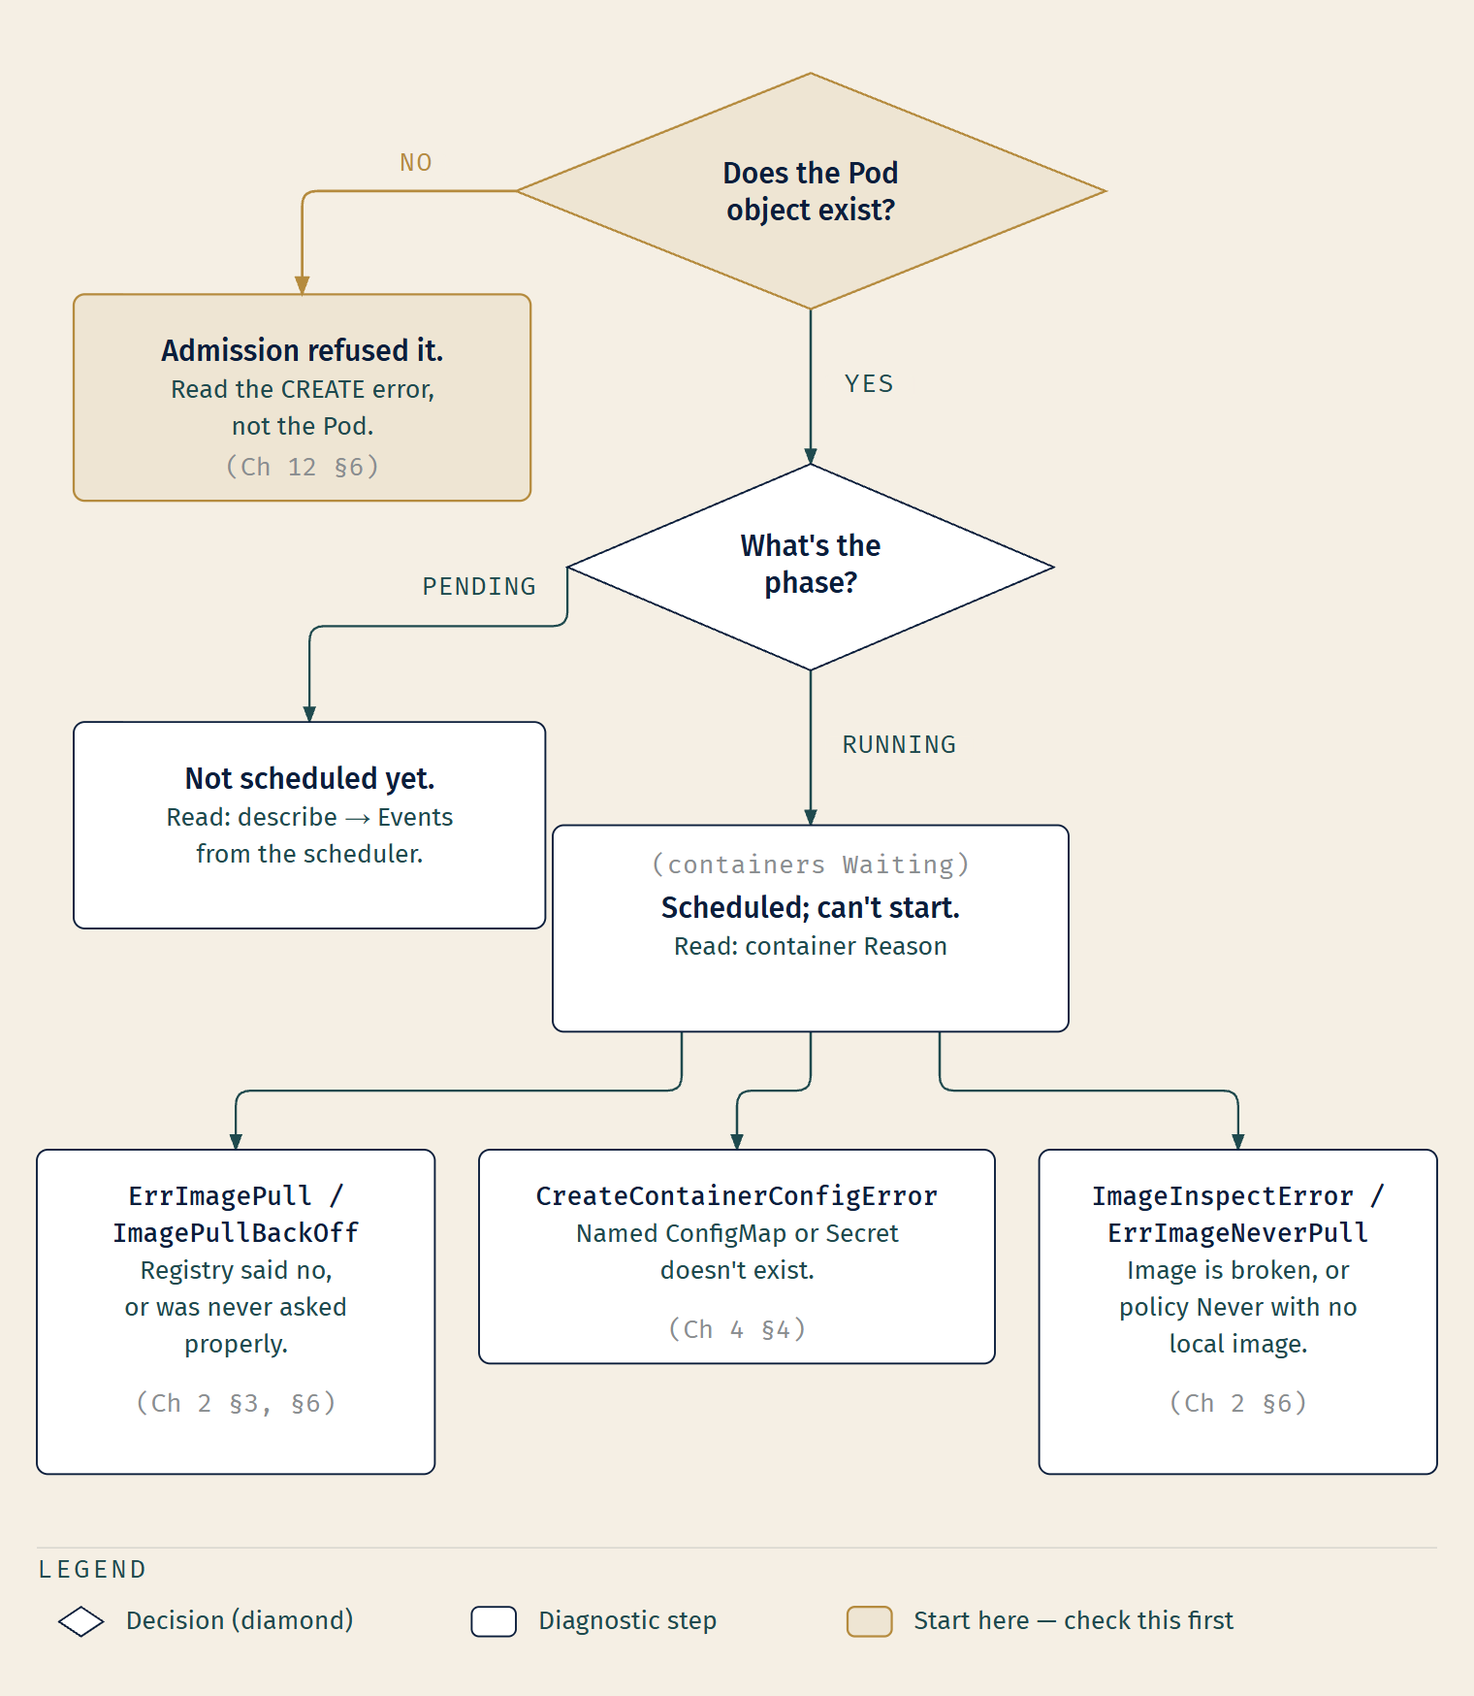
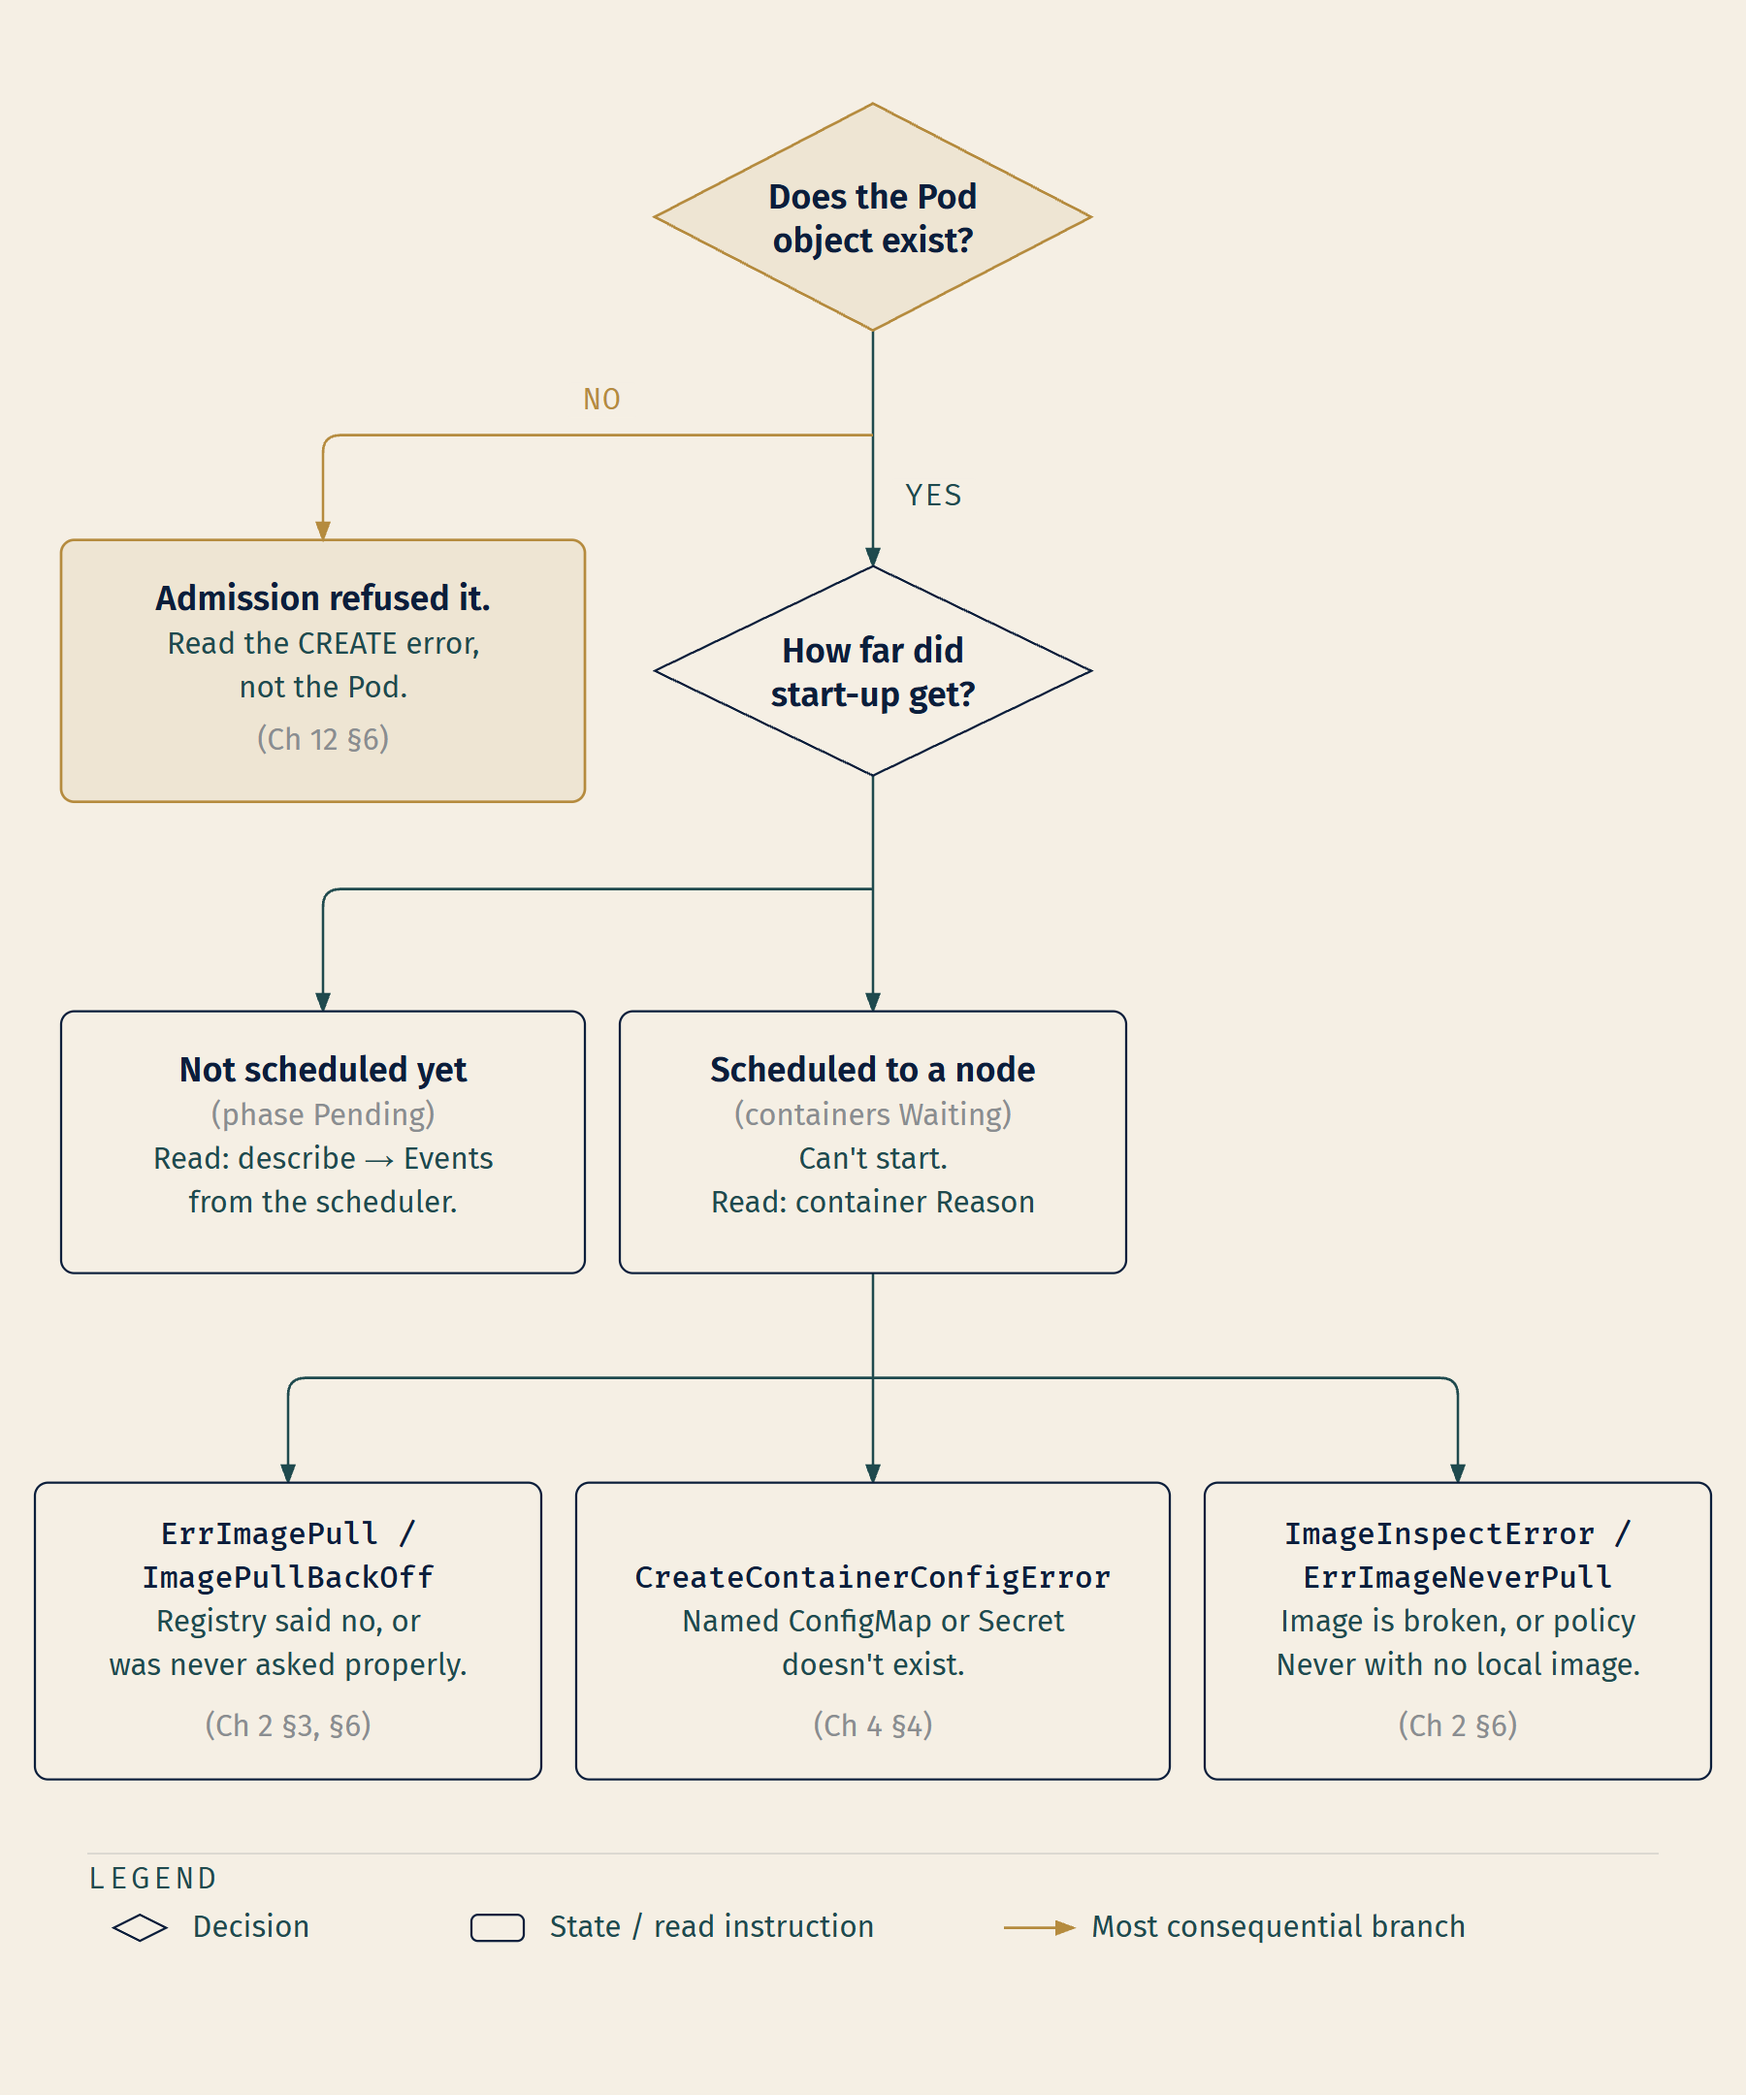
ch13-fig02 regenerated: the scheduled-but-not-started branch is Pending with containers Waiting, no longer labeled Running
Claude-Session: https://claude.ai/code/session_017xzPFT9rf4ARsw4oFKb6jK

diff --git a/chapter-13-when-the-cluster-won-t-answer.md b/chapter-13-when-the-cluster-won-t-answer.md
@@ -415,7 +415,7 @@ This is the largest failure family, and the one where the method pays off hardes
 Every failure in this section shares one property: **no container ever executed.** Nothing ran, so nothing logged, so no amount of log-reading will help you. What separates them is *how far into the start-up sequence the platform got before it stopped*.
 
 <!-- FIGURE: ch13-fig02-pod-failure-signature-map -->
-![A decision tree beginning with the question of whether the Pod object exists; the No branch leads to admission refusal, and the Yes branch splits by phase into Pending, meaning not scheduled, and Running with containers waiting, which fans out into the image-pull, configuration, and image-policy failure reasons](figures/ch13-fig02-pod-failure-signature-map.svg)
+![A decision tree beginning with the question of whether the Pod object exists; the No branch leads to admission refusal, and the Yes branch asks how far start-up got, splitting into not scheduled yet, phase Pending, and scheduled to a node with containers Waiting, which fans out into the image-pull, configuration, and image-policy failure reasons](figures/ch13-fig02-pod-failure-signature-map.svg)
 
 <!-- ASCII-FALLBACK
 ```
@@ -424,13 +424,13 @@ Every failure in this section shares one property: **no container ever executed.
               ┌───────────────┴───────────────┐
               NO                              YES
               │                                │
-    Admission refused it.                 What's the phase?
+    Admission refused it.             How far did start-up get?
     Read the CREATE error,                     │
     not the Pod.                    ┌──────────┴──────────┐
-    (Ch 12 §6)                   Pending                Running
-                                    │                  (containers Waiting)
-                          Not scheduled yet.                 │
-                          Read: describe → Events    Scheduled; can't start.
+    (Ch 12 §6)               Not scheduled yet       Scheduled to a node
+                             (phase Pending)         (containers Waiting)
+                                    │                        │
+                          Read: describe → Events    Can't start.
                           from the scheduler.        Read: container Reason
                                                             │
                               ┌─────────────────────────────┼────────────────────┐
@@ -1361,7 +1361,7 @@ But that is not the shape of what you learned.
                                           ErrImagePull            CrashLoopBackOff
                                           ImagePullBackOff        OOMKilled
                                           ImageInspectError       Evicted
-                                          ErrImageNeverPull       probe failures
+                                          ErrImageNeverPull
                                           CreateContainerConfigError
 
               Nine signatures. One lookup. The key is always the phase.
